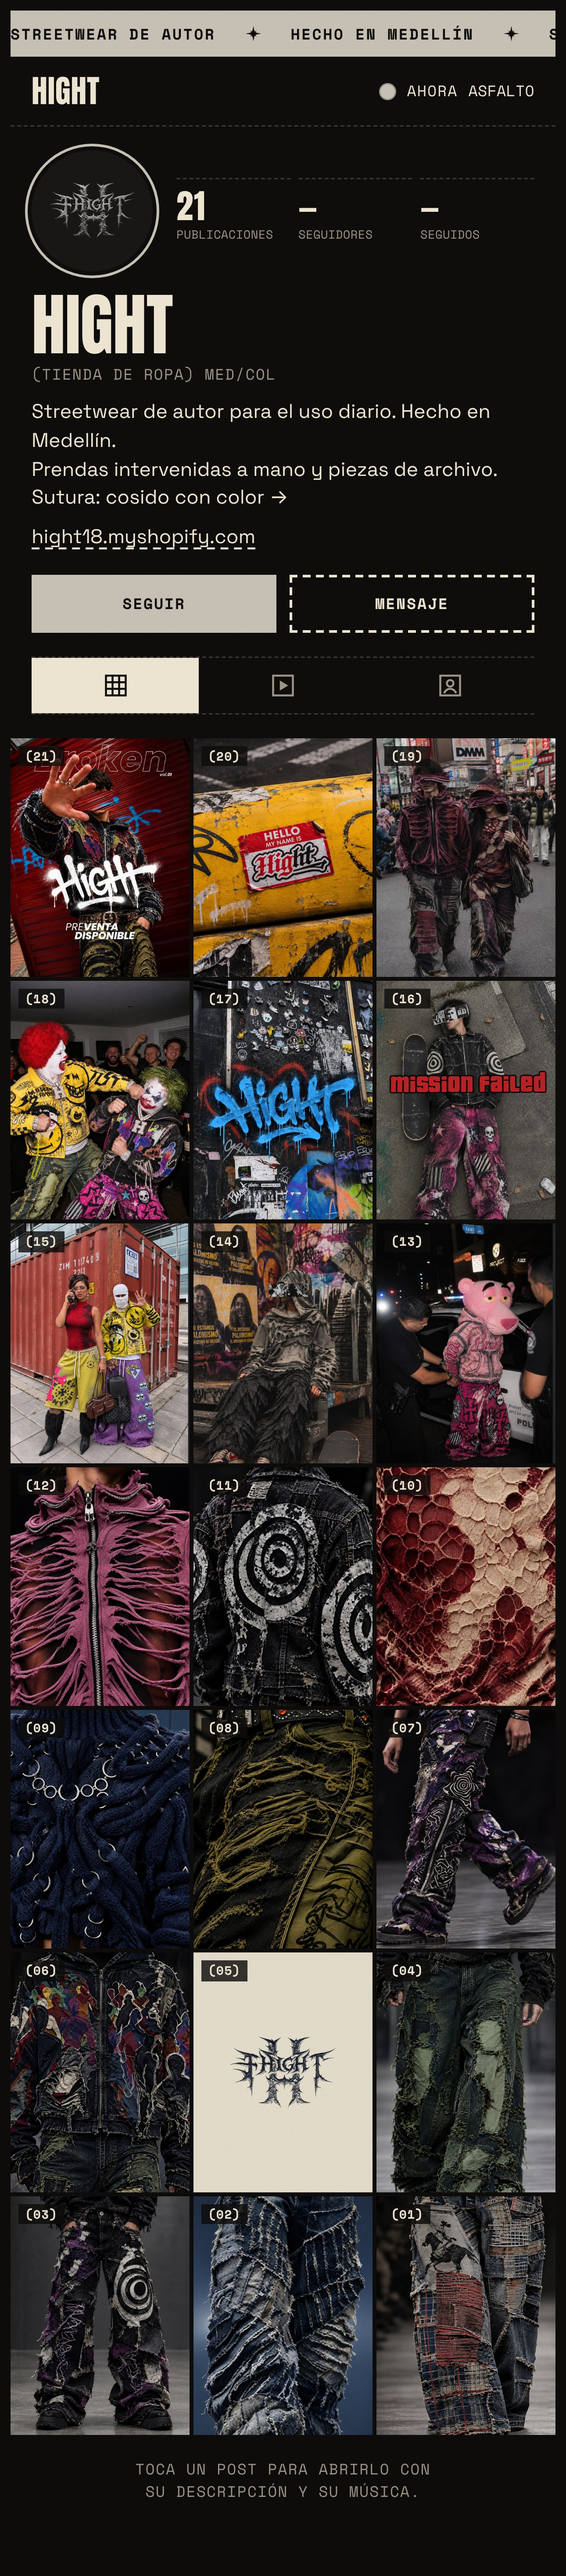
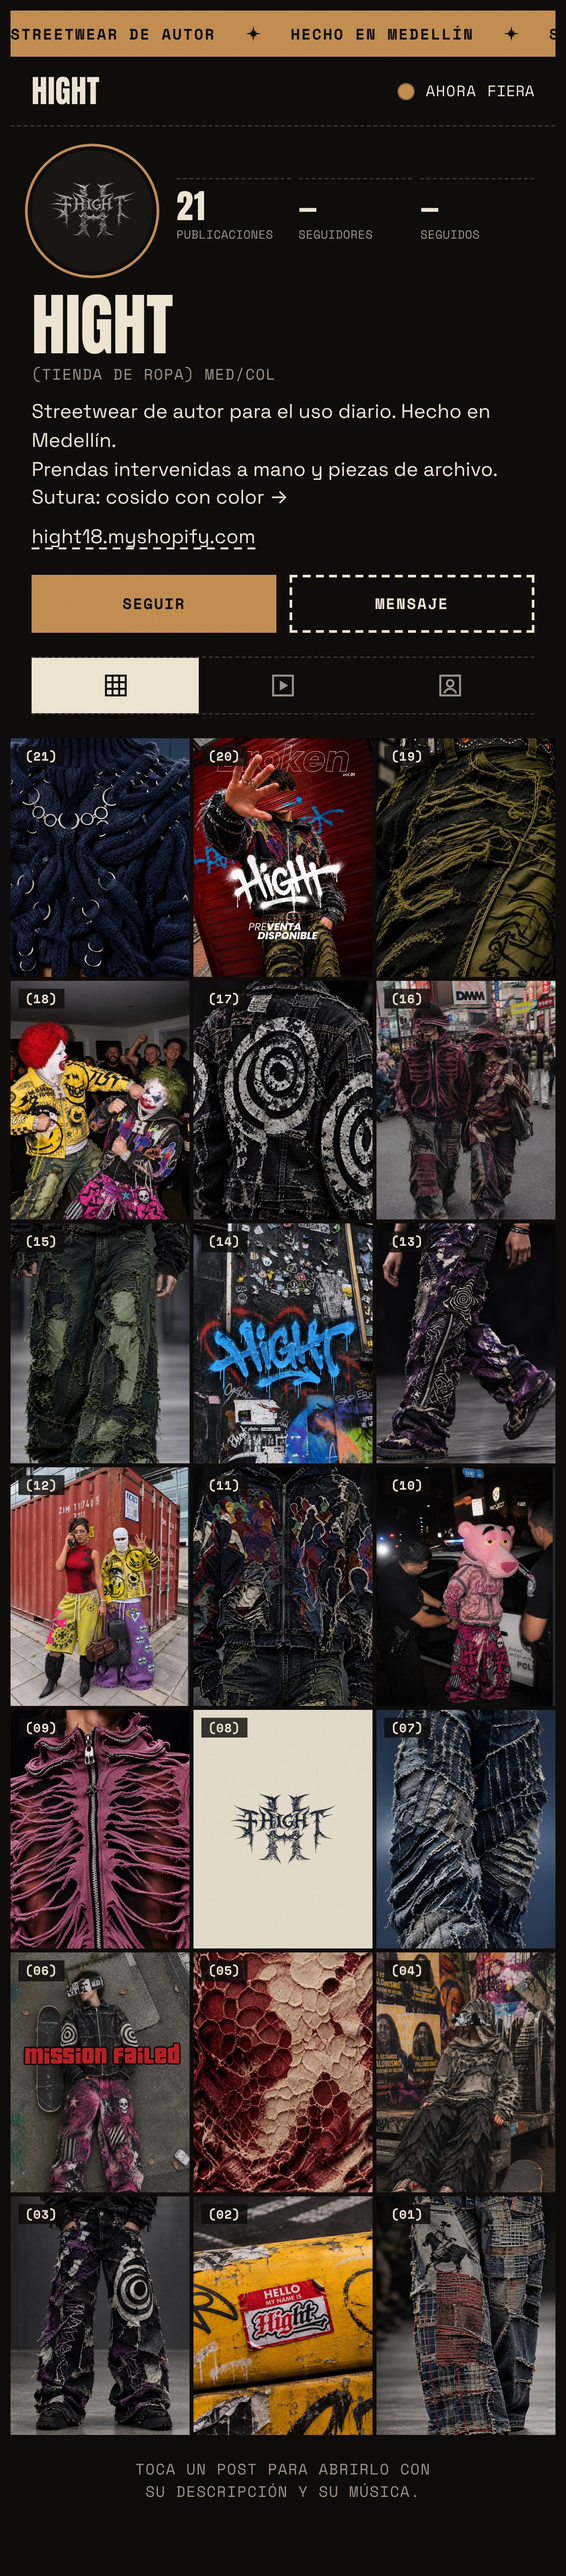
Feed de Sutura: los 21 posts en tablero, mezclando detalles, calle y gráficas
Claude-Session: https://claude.ai/code/session_01G48NiERhNFFkxz4Zg6J7Mb

diff --git a/bocetos/primeros-planos/muestra.html b/bocetos/primeros-planos/muestra.html
@@ -236,7 +236,7 @@ body::after {
 })();
 </script>
 <script>
-const POSTS = [{"n": 1, "src": "fotos/jean-patchwork-cuadros.jpg", "alt": "Jean Patchwork Cuadros de cerca: parches de franela, ladrillo y denim con el borde crudo", "pista": "rock-psicodelico", "pistaNombre": "Rock psicodélico", "desde": 4.286, "dura": 12.857, "lineas": ["Jean Patchwork Cuadros: franela a cuadros, ladrillo y denim lavado, cosidos con el borde crudo.", "Cada parche viene de otra prenda; juntos cuentan otra historia.", "$540.000, en el enlace de la bio.", "Fotos creadas con IA a partir de las prendas reales."], "hashtags": "#HIGHT #Sutura #DenimIntervenido", "etiquetas": "Jean Patchwork Cuadros", "fecha": "Primeros planos · 01 de 21"}, {"n": 2, "src": "fotos/jean-wide-fleco-indigo.jpg", "alt": "Jean Wide Fleco Índigo de cerca: franjas de índigo deshilachadas, cosidas en diagonal", "pista": "neo-psicodelia", "pistaNombre": "Neo-psicodelia", "desde": 0.0, "dura": 12.245, "lineas": ["Jean Wide Fleco Índigo: franjas de índigo cosidas en diagonal, con el borde deshilachado a mano.", "Se mueve antes que tú.", "$620.000. Guarda este post."], "hashtags": "#HIGHT #Sutura #DenimIntervenido", "etiquetas": "Jean Wide Fleco Índigo", "fecha": "Primeros planos · 02 de 21"}, {"n": 3, "src": "fotos/jean-patchwork-estrellas-violeta-frente.jpg", "alt": "Jean Patchwork Estrellas Violeta de frente: parches violeta y negros con una diana pintada en blanco", "pista": "pop-psicodelico", "pistaNombre": "Pop psicodélico", "desde": 4.615, "dura": 11.538, "lineas": ["Jean Patchwork Estrellas Violeta: parches violeta y negros, costura cruda y una diana pintada a mano.", "Ningún parche está donde debería. Ese es el punto.", "$650.000, en el enlace de la bio."], "hashtags": "#HIGHT #Sutura", "etiquetas": "Jean Patchwork Estrellas Violeta", "fecha": "Primeros planos · 03 de 21"}, {"n": 4, "src": "fotos/jean-flare-destroyed-verde.jpg", "alt": "Jean Flare Destroyed Verde de cerca: rotos grandes rellenos de tela verde clara", "pista": "rock-psicodelico", "pistaNombre": "Rock psicodélico", "desde": 12.857, "dura": 12.857, "lineas": ["Jean Flare Destroyed Verde: rotos grandes rellenos de tela verde clara, cosidos en zigzag.", "Lo gastado también se elige.", "$480.000. Etiqueta a quien lo llevaría."], "hashtags": "#HIGHT #Sutura #DenimIntervenido", "etiquetas": "Jean Flare Destroyed Verde", "fecha": "Primeros planos · 04 de 21"}, {"n": 5, "src": "fotos/logo-hueso.jpg", "alt": "El logo de HIGHT en tinta sobre hueso", "pista": "neo-psicodelia", "pistaNombre": "Neo-psicodelia", "desde": 9.796, "dura": 12.245, "lineas": ["HIGHT. Sutura.", "Cosido con color, hecho en Medellín.", "Activa las notificaciones del perfil."], "hashtags": "#HIGHT #Sutura #Medellín", "etiquetas": "ninguno", "fecha": "Primeros planos · 05 de 21"}, {"n": 6, "src": "fotos/buzo-multitud-termica.jpg", "alt": "Buzo Multitud Térmica de cerca: siluetas de colores sobre denim negro deshilachado", "pista": "pop-psicodelico", "pistaNombre": "Pop psicodélico", "desde": 13.846, "dura": 11.538, "lineas": ["Buzo Multitud Térmica: una multitud en colores de cámara térmica sobre denim negro lavado.", "Entre la multitud, nadie se parece.", "$390.000, en el enlace de la bio."], "hashtags": "#HIGHT #Sutura", "etiquetas": "Buzo Multitud Térmica", "fecha": "Primeros planos · 06 de 21"}, {"n": 7, "src": "fotos/jean-patchwork-estrellas-violeta-estrella.jpg", "alt": "Jean Patchwork Estrellas Violeta caminando: la estrella en espiral sobre violeta salpicado", "pista": "rock-psicodelico", "pistaNombre": "Rock psicodélico", "desde": 21.429, "dura": 12.857, "lineas": ["Jean Patchwork Estrellas Violeta: la estrella en espiral, de cerca, sobre violeta salpicado de cloro.", "Camina y el estampado camina contigo.", "¿Violeta o negro? Te leemos."], "hashtags": "#HIGHT #Sutura #DenimIntervenido", "etiquetas": "Jean Patchwork Estrellas Violeta", "fecha": "Primeros planos · 07 de 21"}, {"n": 8, "src": "fotos/jean-flare-dragon-acido.jpg", "alt": "Jean Flare Dragón Ácido de cerca: hilos oliva sobre negro y el dragón en tinta", "pista": "pop-psicodelico", "pistaNombre": "Pop psicodélico", "desde": 9.231, "dura": 11.538, "lineas": ["Jean Flare Dragón Ácido: hilos oliva sueltos sobre negro y un dragón en tinta en la pierna.", "Lo que se deshace también tiene forma.", "$490.000, en el enlace de la bio."], "hashtags": "#HIGHT #Sutura", "etiquetas": "Jean Flare Dragón Ácido", "fecha": "Primeros planos · 08 de 21"}, {"n": 9, "src": "fotos/tejido-anillos-indigo.jpg", "alt": "Tejido Anillos Índigo de cerca: tiras tejidas en azul noche unidas con argollas metálicas", "pista": "neo-psicodelia", "pistaNombre": "Neo-psicodelia", "desde": 14.694, "dura": 12.245, "lineas": ["Tejido Anillos Índigo: tiras tubulares tejidas en azul noche, unidas con argollas metálicas.", "Un suéter que no se parece a otro.", "$460.000. Mira las argollas en la ficha de la tienda."], "hashtags": "#HIGHT #Sutura #HechoAMano", "etiquetas": "Tejido Anillos Índigo", "fecha": "Primeros planos · 09 de 21"}, {"n": 10, "src": "fotos/camiseta-celula-carmin.jpg", "alt": "Camiseta Célula Carmín de cerca: estampado de células en carmín y hueso", "pista": "neo-psicodelia", "pistaNombre": "Neo-psicodelia", "desde": 19.592, "dura": 12.245, "lineas": ["Camiseta Célula Carmín: estampado de pintura fluida en carmín y hueso, sobre la tela calada.", "De lejos, una mancha. De cerca, células.", "$169.000, en el enlace de la bio."], "hashtags": "#HIGHT #Sutura", "etiquetas": "Camiseta Célula Carmín", "fecha": "Primeros planos · 10 de 21"}, {"n": 11, "src": "fotos/chaqueta-trouble-maker.jpg", "alt": "Chaqueta Trouble Maker de espalda: espirales pintadas en blanco sobre denim negro", "pista": "rock-psicodelico", "pistaNombre": "Rock psicodélico", "desde": 8.571, "dura": 12.857, "lineas": ["Chaqueta Trouble Maker: denim negro de archivo, espirales pintadas a mano en blanco y parches deshilachados.", "La espalda también habla.", "$580.000. Etiqueta a quien la llevaría."], "hashtags": "#HIGHT #Sutura #DenimIntervenido", "etiquetas": "Chaqueta Trouble Maker", "fecha": "Primeros planos · 11 de 21"}, {"n": 12, "src": "fotos/chaqueta-blood-rose.jpg", "alt": "Chaqueta Blood Rose de cerca: la capa lavanda calada y la cremallera metálica", "pista": "neo-psicodelia", "pistaNombre": "Neo-psicodelia", "desde": 7.347, "dura": 12.245, "lineas": ["Chaqueta Blood Rose: capa lavanda calada a mano y una cremallera metálica que sube hasta el cuello.", "Elegante no es lo mismo que obediente.", "$500.000, en el enlace de la bio."], "hashtags": "#HIGHT #Sutura #HechoAMano", "etiquetas": "Chaqueta Blood Rose", "fecha": "Primeros planos · 12 de 21"}, {"n": 13, "src": "fotos/pantera-patrulla.jpg", "alt": "Alguien con cabeza de pantera rosada y ropa intervenida en rosado, junto a una patrulla de noche", "pista": "rock-psicodelico", "pistaNombre": "Rock psicodélico", "desde": 0.0, "dura": 12.857, "lineas": ["Sutura salió de noche y la calle no estaba lista.", "Hay prendas que se notan hasta desde la patrulla.", "Etiqueta a quien terminaría así."], "hashtags": "#HIGHT #Sutura", "etiquetas": "por confirmar", "fecha": "Primeros planos · 13 de 21"}, {"n": 14, "src": "fotos/buzo-ceniza-afiches.jpg", "alt": "Buzo gris calado a mano y pantalón de capas negras, sentado frente a una pared con afiches y grafiti", "pista": "neo-psicodelia", "pistaNombre": "Neo-psicodelia", "desde": 22.041, "dura": 12.245, "lineas": ["Gris asfalto, calado a mano, capa sobre capa.", "Lo que se deshace también abriga.", "Guarda este post."], "hashtags": "#HIGHT #Sutura #HechoAMano", "etiquetas": "por confirmar", "fecha": "Primeros planos · 14 de 21"}, {"n": 15, "src": "fotos/contenedor.jpg", "alt": "Dos personas frente a un contenedor rojo: bermuda verde con cruz rosada, chaqueta amarilla pintada y pantalón violeta", "pista": "pop-psicodelico", "pistaNombre": "Pop psicodélico", "desde": 18.462, "dura": 11.538, "lineas": ["Dos salidas frente al mismo contenedor.", "El color también viaja.", "¿Cuál te llevas: el amarillo o el violeta? Te leemos."], "hashtags": "#HIGHT #Sutura", "etiquetas": "por confirmar", "fecha": "Primeros planos · 15 de 21"}, {"n": 16, "src": "fotos/mission-failed.jpg", "alt": "Alguien acostado en el piso junto a una patineta, con chaqueta de espirales y cargo rosado con calavera", "pista": "rock-psicodelico", "pistaNombre": "Rock psicodélico", "desde": 17.143, "dura": 12.857, "lineas": ["Misión fallida, outfit cumplido.", "Caer también es una pose.", "Etiqueta a tu compañero de misiones."], "hashtags": "#HIGHT #Sutura", "etiquetas": "por confirmar", "fecha": "Primeros planos · 16 de 21"}, {"n": 17, "src": "fotos/grafiti-hight.jpg", "alt": "HIGHT pintado en azul sobre una pared llena de stickers y grafiti", "pista": "neo-psicodelia", "pistaNombre": "Neo-psicodelia", "desde": 24.49, "dura": 12.245, "lineas": ["HIGHT, en la pared.", "La firma se pone donde se vive.", "¿Dónde la pintarías tú? Te leemos."], "hashtags": "#HIGHT #Sutura #Medellín", "etiquetas": "ninguno", "fecha": "Primeros planos · 17 de 21"}, {"n": 18, "src": "fotos/pelea-payasos.jpg", "alt": "Dos personas disfrazadas de payaso peleando en una fiesta, con chaqueta amarilla pintada y buzo de siluetas de colores", "pista": "pop-psicodelico", "pistaNombre": "Pop psicodélico", "desde": 23.077, "dura": 11.538, "lineas": ["Dos chaquetas intervenidas y ninguna tregua.", "La fiesta se acaba cuando alguien llega mejor vestido.", "Etiqueta a quien empezaría la pelea."], "hashtags": "#HIGHT #Sutura", "etiquetas": "por confirmar", "fecha": "Primeros planos · 18 de 21"}, {"n": 19, "src": "fotos/calle-carmin.jpg", "alt": "Dos personas caminando por una calle llena de gente, con chaqueta y saco calados en carmín", "pista": "neo-psicodelia", "pistaNombre": "Neo-psicodelia", "desde": 4.898, "dura": 12.245, "lineas": ["Carmín calado de pies a cabeza, lejos de casa.", "Cosido aquí, caminado en cualquier parte.", "Guarda este post."], "hashtags": "#HIGHT #Sutura #HechoAMano", "etiquetas": "por confirmar", "fecha": "Primeros planos · 19 de 21"}, {"n": 20, "src": "fotos/sticker-hello.jpg", "alt": "Sticker de HIGHT pegado en una baranda amarilla de la calle", "pista": "rock-psicodelico", "pistaNombre": "Rock psicodélico", "desde": 12.857, "dura": 12.857, "lineas": ["Hello, my name is HIGHT.", "Si lo ves pegado en la calle, ya sabes quién pasó.", "Mándanos una foto si encuentras uno."], "hashtags": "#HIGHT #Sutura #Medellín", "etiquetas": "ninguno", "fecha": "Primeros planos · 20 de 21"}, {"n": 21, "src": "fotos/broken-preventa.jpg", "alt": "Afiche de la preventa: alguien con chaqueta de hilos de colores frente a una persiana roja, con HIGHT en grafiti blanco", "pista": "pop-psicodelico", "pistaNombre": "Pop psicodélico", "desde": 0.0, "dura": 11.538, "lineas": ["Preventa abierta.", "Cada pieza se hace por encargo y no se repite.", "Separa la tuya en el enlace de la bio."], "hashtags": "#HIGHT #Sutura", "etiquetas": "por confirmar", "fecha": "Primeros planos · 21 de 21"}];
+const POSTS = [{"n": 1, "src": "fotos/jean-patchwork-cuadros.jpg", "alt": "Jean Patchwork Cuadros de cerca: parches de franela, ladrillo y denim con el borde crudo", "pista": "rock-psicodelico", "pistaNombre": "Rock psicodélico", "desde": 4.286, "dura": 12.857, "lineas": ["Jean Patchwork Cuadros: franela a cuadros, ladrillo y denim lavado, cosidos con el borde crudo.", "Cada parche viene de otra prenda; juntos cuentan otra historia.", "$540.000, en el enlace de la bio.", "Fotos creadas con IA a partir de las prendas reales."], "hashtags": "#HIGHT #Sutura #DenimIntervenido", "etiquetas": "Jean Patchwork Cuadros", "fecha": "Sutura · 01 de 21"}, {"n": 2, "src": "fotos/sticker-hello.jpg", "alt": "Sticker de HIGHT pegado en una baranda amarilla de la calle", "pista": "rock-psicodelico", "pistaNombre": "Rock psicodélico", "desde": 12.857, "dura": 12.857, "lineas": ["Hello, my name is HIGHT.", "Si lo ves pegado en la calle, ya sabes quién pasó.", "Mándanos una foto si encuentras uno."], "hashtags": "#HIGHT #Sutura #Medellín", "etiquetas": "ninguno", "fecha": "Sutura · 02 de 21"}, {"n": 3, "src": "fotos/jean-patchwork-estrellas-violeta-frente.jpg", "alt": "Jean Patchwork Estrellas Violeta de frente: parches violeta y negros con una diana pintada en blanco", "pista": "pop-psicodelico", "pistaNombre": "Pop psicodélico", "desde": 4.615, "dura": 11.538, "lineas": ["Jean Patchwork Estrellas Violeta: parches violeta y negros, costura cruda y una diana pintada a mano.", "Ningún parche está donde debería. Ese es el punto.", "$650.000, en el enlace de la bio."], "hashtags": "#HIGHT #Sutura", "etiquetas": "Jean Patchwork Estrellas Violeta", "fecha": "Sutura · 03 de 21"}, {"n": 4, "src": "fotos/buzo-ceniza-afiches.jpg", "alt": "Buzo gris calado a mano y pantalón de capas negras, sentado frente a una pared con afiches y grafiti", "pista": "neo-psicodelia", "pistaNombre": "Neo-psicodelia", "desde": 22.041, "dura": 12.245, "lineas": ["Gris asfalto, calado a mano, capa sobre capa.", "Lo que se deshace también abriga.", "Guarda este post."], "hashtags": "#HIGHT #Sutura #HechoAMano", "etiquetas": "por confirmar", "fecha": "Sutura · 04 de 21"}, {"n": 5, "src": "fotos/camiseta-celula-carmin.jpg", "alt": "Camiseta Célula Carmín de cerca: estampado de células en carmín y hueso", "pista": "neo-psicodelia", "pistaNombre": "Neo-psicodelia", "desde": 19.592, "dura": 12.245, "lineas": ["Camiseta Célula Carmín: estampado de pintura fluida en carmín y hueso, sobre la tela calada.", "De lejos, una mancha. De cerca, células.", "$169.000, en el enlace de la bio."], "hashtags": "#HIGHT #Sutura", "etiquetas": "Camiseta Célula Carmín", "fecha": "Sutura · 05 de 21"}, {"n": 6, "src": "fotos/mission-failed.jpg", "alt": "Alguien acostado en el piso junto a una patineta, con chaqueta de espirales y cargo rosado con calavera", "pista": "rock-psicodelico", "pistaNombre": "Rock psicodélico", "desde": 17.143, "dura": 12.857, "lineas": ["Misión fallida, outfit cumplido.", "Caer también es una pose.", "Etiqueta a tu compañero de misiones."], "hashtags": "#HIGHT #Sutura", "etiquetas": "por confirmar", "fecha": "Sutura · 06 de 21"}, {"n": 7, "src": "fotos/jean-wide-fleco-indigo.jpg", "alt": "Jean Wide Fleco Índigo de cerca: franjas de índigo deshilachadas, cosidas en diagonal", "pista": "neo-psicodelia", "pistaNombre": "Neo-psicodelia", "desde": 0.0, "dura": 12.245, "lineas": ["Jean Wide Fleco Índigo: franjas de índigo cosidas en diagonal, con el borde deshilachado a mano.", "Se mueve antes que tú.", "$620.000. Guarda este post."], "hashtags": "#HIGHT #Sutura #DenimIntervenido", "etiquetas": "Jean Wide Fleco Índigo", "fecha": "Sutura · 07 de 21"}, {"n": 8, "src": "fotos/logo-hueso.jpg", "alt": "El logo de HIGHT en tinta sobre hueso", "pista": "neo-psicodelia", "pistaNombre": "Neo-psicodelia", "desde": 9.796, "dura": 12.245, "lineas": ["HIGHT. Sutura.", "Cosido con color, hecho en Medellín.", "Activa las notificaciones del perfil."], "hashtags": "#HIGHT #Sutura #Medellín", "etiquetas": "ninguno", "fecha": "Sutura · 08 de 21"}, {"n": 9, "src": "fotos/chaqueta-blood-rose.jpg", "alt": "Chaqueta Blood Rose de cerca: la capa lavanda calada y la cremallera metálica", "pista": "neo-psicodelia", "pistaNombre": "Neo-psicodelia", "desde": 7.347, "dura": 12.245, "lineas": ["Chaqueta Blood Rose: capa lavanda calada a mano y una cremallera metálica que sube hasta el cuello.", "Elegante no es lo mismo que obediente.", "$500.000, en el enlace de la bio."], "hashtags": "#HIGHT #Sutura #HechoAMano", "etiquetas": "Chaqueta Blood Rose", "fecha": "Sutura · 09 de 21"}, {"n": 10, "src": "fotos/pantera-patrulla.jpg", "alt": "Alguien con cabeza de pantera rosada y ropa intervenida en rosado, junto a una patrulla de noche", "pista": "rock-psicodelico", "pistaNombre": "Rock psicodélico", "desde": 0.0, "dura": 12.857, "lineas": ["Sutura salió de noche y la calle no estaba lista.", "Hay prendas que se notan hasta desde la patrulla.", "Etiqueta a quien terminaría así."], "hashtags": "#HIGHT #Sutura", "etiquetas": "por confirmar", "fecha": "Sutura · 10 de 21"}, {"n": 11, "src": "fotos/buzo-multitud-termica.jpg", "alt": "Buzo Multitud Térmica de cerca: siluetas de colores sobre denim negro deshilachado", "pista": "pop-psicodelico", "pistaNombre": "Pop psicodélico", "desde": 13.846, "dura": 11.538, "lineas": ["Buzo Multitud Térmica: una multitud en colores de cámara térmica sobre denim negro lavado.", "Entre la multitud, nadie se parece.", "$390.000, en el enlace de la bio."], "hashtags": "#HIGHT #Sutura", "etiquetas": "Buzo Multitud Térmica", "fecha": "Sutura · 11 de 21"}, {"n": 12, "src": "fotos/contenedor.jpg", "alt": "Dos personas frente a un contenedor rojo: bermuda verde con cruz rosada, chaqueta amarilla pintada y pantalón violeta", "pista": "pop-psicodelico", "pistaNombre": "Pop psicodélico", "desde": 18.462, "dura": 11.538, "lineas": ["Dos salidas frente al mismo contenedor.", "El color también viaja.", "¿Cuál te llevas: el amarillo o el violeta? Te leemos."], "hashtags": "#HIGHT #Sutura", "etiquetas": "por confirmar", "fecha": "Sutura · 12 de 21"}, {"n": 13, "src": "fotos/jean-patchwork-estrellas-violeta-estrella.jpg", "alt": "Jean Patchwork Estrellas Violeta caminando: la estrella en espiral sobre violeta salpicado", "pista": "rock-psicodelico", "pistaNombre": "Rock psicodélico", "desde": 21.429, "dura": 12.857, "lineas": ["Jean Patchwork Estrellas Violeta: la estrella en espiral, de cerca, sobre violeta salpicado de cloro.", "Camina y el estampado camina contigo.", "¿Violeta o negro? Te leemos."], "hashtags": "#HIGHT #Sutura #DenimIntervenido", "etiquetas": "Jean Patchwork Estrellas Violeta", "fecha": "Sutura · 13 de 21"}, {"n": 14, "src": "fotos/grafiti-hight.jpg", "alt": "HIGHT pintado en azul sobre una pared llena de stickers y grafiti", "pista": "neo-psicodelia", "pistaNombre": "Neo-psicodelia", "desde": 24.49, "dura": 12.245, "lineas": ["HIGHT, en la pared.", "La firma se pone donde se vive.", "¿Dónde la pintarías tú? Te leemos."], "hashtags": "#HIGHT #Sutura #Medellín", "etiquetas": "ninguno", "fecha": "Sutura · 14 de 21"}, {"n": 15, "src": "fotos/jean-flare-destroyed-verde.jpg", "alt": "Jean Flare Destroyed Verde de cerca: rotos grandes rellenos de tela verde clara", "pista": "rock-psicodelico", "pistaNombre": "Rock psicodélico", "desde": 12.857, "dura": 12.857, "lineas": ["Jean Flare Destroyed Verde: rotos grandes rellenos de tela verde clara, cosidos en zigzag.", "Lo gastado también se elige.", "$480.000. Etiqueta a quien lo llevaría."], "hashtags": "#HIGHT #Sutura #DenimIntervenido", "etiquetas": "Jean Flare Destroyed Verde", "fecha": "Sutura · 15 de 21"}, {"n": 16, "src": "fotos/calle-carmin.jpg", "alt": "Dos personas caminando por una calle llena de gente, con chaqueta y saco calados en carmín", "pista": "neo-psicodelia", "pistaNombre": "Neo-psicodelia", "desde": 4.898, "dura": 12.245, "lineas": ["Carmín calado de pies a cabeza, lejos de casa.", "Cosido aquí, caminado en cualquier parte.", "Guarda este post."], "hashtags": "#HIGHT #Sutura #HechoAMano", "etiquetas": "por confirmar", "fecha": "Sutura · 16 de 21"}, {"n": 17, "src": "fotos/chaqueta-trouble-maker.jpg", "alt": "Chaqueta Trouble Maker de espalda: espirales pintadas en blanco sobre denim negro", "pista": "rock-psicodelico", "pistaNombre": "Rock psicodélico", "desde": 8.571, "dura": 12.857, "lineas": ["Chaqueta Trouble Maker: denim negro de archivo, espirales pintadas a mano en blanco y parches deshilachados.", "La espalda también habla.", "$580.000. Etiqueta a quien la llevaría."], "hashtags": "#HIGHT #Sutura #DenimIntervenido", "etiquetas": "Chaqueta Trouble Maker", "fecha": "Sutura · 17 de 21"}, {"n": 18, "src": "fotos/pelea-payasos.jpg", "alt": "Dos personas disfrazadas de payaso peleando en una fiesta, con chaqueta amarilla pintada y buzo de siluetas de colores", "pista": "pop-psicodelico", "pistaNombre": "Pop psicodélico", "desde": 23.077, "dura": 11.538, "lineas": ["Dos chaquetas intervenidas y ninguna tregua.", "La fiesta se acaba cuando alguien llega mejor vestido.", "Etiqueta a quien empezaría la pelea."], "hashtags": "#HIGHT #Sutura", "etiquetas": "por confirmar", "fecha": "Sutura · 18 de 21"}, {"n": 19, "src": "fotos/jean-flare-dragon-acido.jpg", "alt": "Jean Flare Dragón Ácido de cerca: hilos oliva sobre negro y el dragón en tinta", "pista": "pop-psicodelico", "pistaNombre": "Pop psicodélico", "desde": 9.231, "dura": 11.538, "lineas": ["Jean Flare Dragón Ácido: hilos oliva sueltos sobre negro y un dragón en tinta en la pierna.", "Lo que se deshace también tiene forma.", "$490.000, en el enlace de la bio."], "hashtags": "#HIGHT #Sutura", "etiquetas": "Jean Flare Dragón Ácido", "fecha": "Sutura · 19 de 21"}, {"n": 20, "src": "fotos/broken-preventa.jpg", "alt": "Afiche de la preventa: alguien con chaqueta de hilos de colores frente a una persiana roja, con HIGHT en grafiti blanco", "pista": "pop-psicodelico", "pistaNombre": "Pop psicodélico", "desde": 0.0, "dura": 11.538, "lineas": ["Preventa abierta.", "Cada pieza se hace por encargo y no se repite.", "Separa la tuya en el enlace de la bio."], "hashtags": "#HIGHT #Sutura", "etiquetas": "por confirmar", "fecha": "Sutura · 20 de 21"}, {"n": 21, "src": "fotos/tejido-anillos-indigo.jpg", "alt": "Tejido Anillos Índigo de cerca: tiras tejidas en azul noche unidas con argollas metálicas", "pista": "neo-psicodelia", "pistaNombre": "Neo-psicodelia", "desde": 14.694, "dura": 12.245, "lineas": ["Tejido Anillos Índigo: tiras tubulares tejidas en azul noche, unidas con argollas metálicas.", "Un suéter que no se parece a otro.", "$460.000. Mira las argollas en la ficha de la tienda."], "hashtags": "#HIGHT #Sutura #HechoAMano", "etiquetas": "Tejido Anillos Índigo", "fecha": "Sutura · 21 de 21"}];
 const PISTAS = {"neo-psicodelia": "musica/neo-psicodelia.mp3", "rock-psicodelico": "musica/rock-psicodelico.mp3", "pop-psicodelico": "musica/pop-psicodelico.mp3"};
 const $ = (id) => document.getElementById(id);
 const audio = $('audio');

diff --git a/bocetos/primeros-planos/muestra.py b/bocetos/primeros-planos/muestra.py
@@ -125,14 +125,36 @@ POSTS = [
 ]
 
 
+# La cuadrícula, de arriba abajo y de izquierda a derecha, tal como se ve en el perfil: en tablero, los primeros
+# planos de las prendas se alternan con las fotos de calle y las piezas gráficas (logo, grafiti, sticker y afiche), y
+# dos colores parecidos no quedan juntos.
+CUADRICULA = [
+    'tejido-anillos-indigo', 'broken-preventa', 'jean-flare-dragon-acido',
+    'pelea-payasos', 'chaqueta-trouble-maker', 'calle-carmin',
+    'jean-flare-destroyed-verde', 'grafiti-hight', 'jean-patchwork-estrellas-violeta-estrella',
+    'contenedor', 'buzo-multitud-termica', 'pantera-patrulla',
+    'chaqueta-blood-rose', 'logo-hueso', 'jean-wide-fleco-indigo',
+    'mission-failed', 'camiseta-celula-carmin', 'buzo-ceniza-afiches',
+    'jean-patchwork-estrellas-violeta-frente', 'sticker-hello', 'jean-patchwork-cuadros',
+]
+
+
 def main():
+    por_foto = {post[0]: post for post in POSTS}
+    assert sorted(por_foto) == sorted(CUADRICULA), 'cada foto va una vez en la cuadrícula'
+    # se publican al revés de como se leen: el último de la cuadrícula es el post 01
+    orden = [por_foto[f] for f in reversed(CUADRICULA)]
+    # el aviso de las fotos hechas con IA va siempre en el primer post publicado
+    aviso = 'Fotos creadas con IA a partir de las prendas reales.'
+    orden = [(f, e, m, a, [l for l in lineas if l != aviso], t) for f, e, m, a, lineas, t in orden]
+    orden[0][4].append(aviso)
     lista = []
-    for n, (foto, etiqueta, (pista, compas), alt, lineas, tags) in enumerate(POSTS, 1):
+    for n, (foto, etiqueta, (pista, compas), alt, lineas, tags) in enumerate(orden, 1):
         bpm, compases, nombre = PISTAS[pista]
         bar = 4 * 60 / bpm
         lista.append({'n': n, 'src': f'fotos/{foto}.jpg', 'alt': alt, 'pista': pista, 'pistaNombre': nombre,
                       'desde': round(compas * bar, 3), 'dura': round(compases * bar, 3), 'lineas': lineas,
-                      'hashtags': tags, 'etiquetas': etiqueta, 'fecha': f'Primeros planos · {n:02d} de {len(POSTS)}'})
+                      'hashtags': tags, 'etiquetas': etiqueta, 'fecha': f'Sutura · {n:02d} de {len(POSTS)}'})
     # la lógica (descripciones, música, deslizar) es la de la muestra del desfile; el diseño, el de la tienda
     viejo = (DESFILE / 'muestra-plantilla.html').read_text()
     script = viejo[viejo.index('<script>'):viejo.index('</script>') + len('</script>')]
